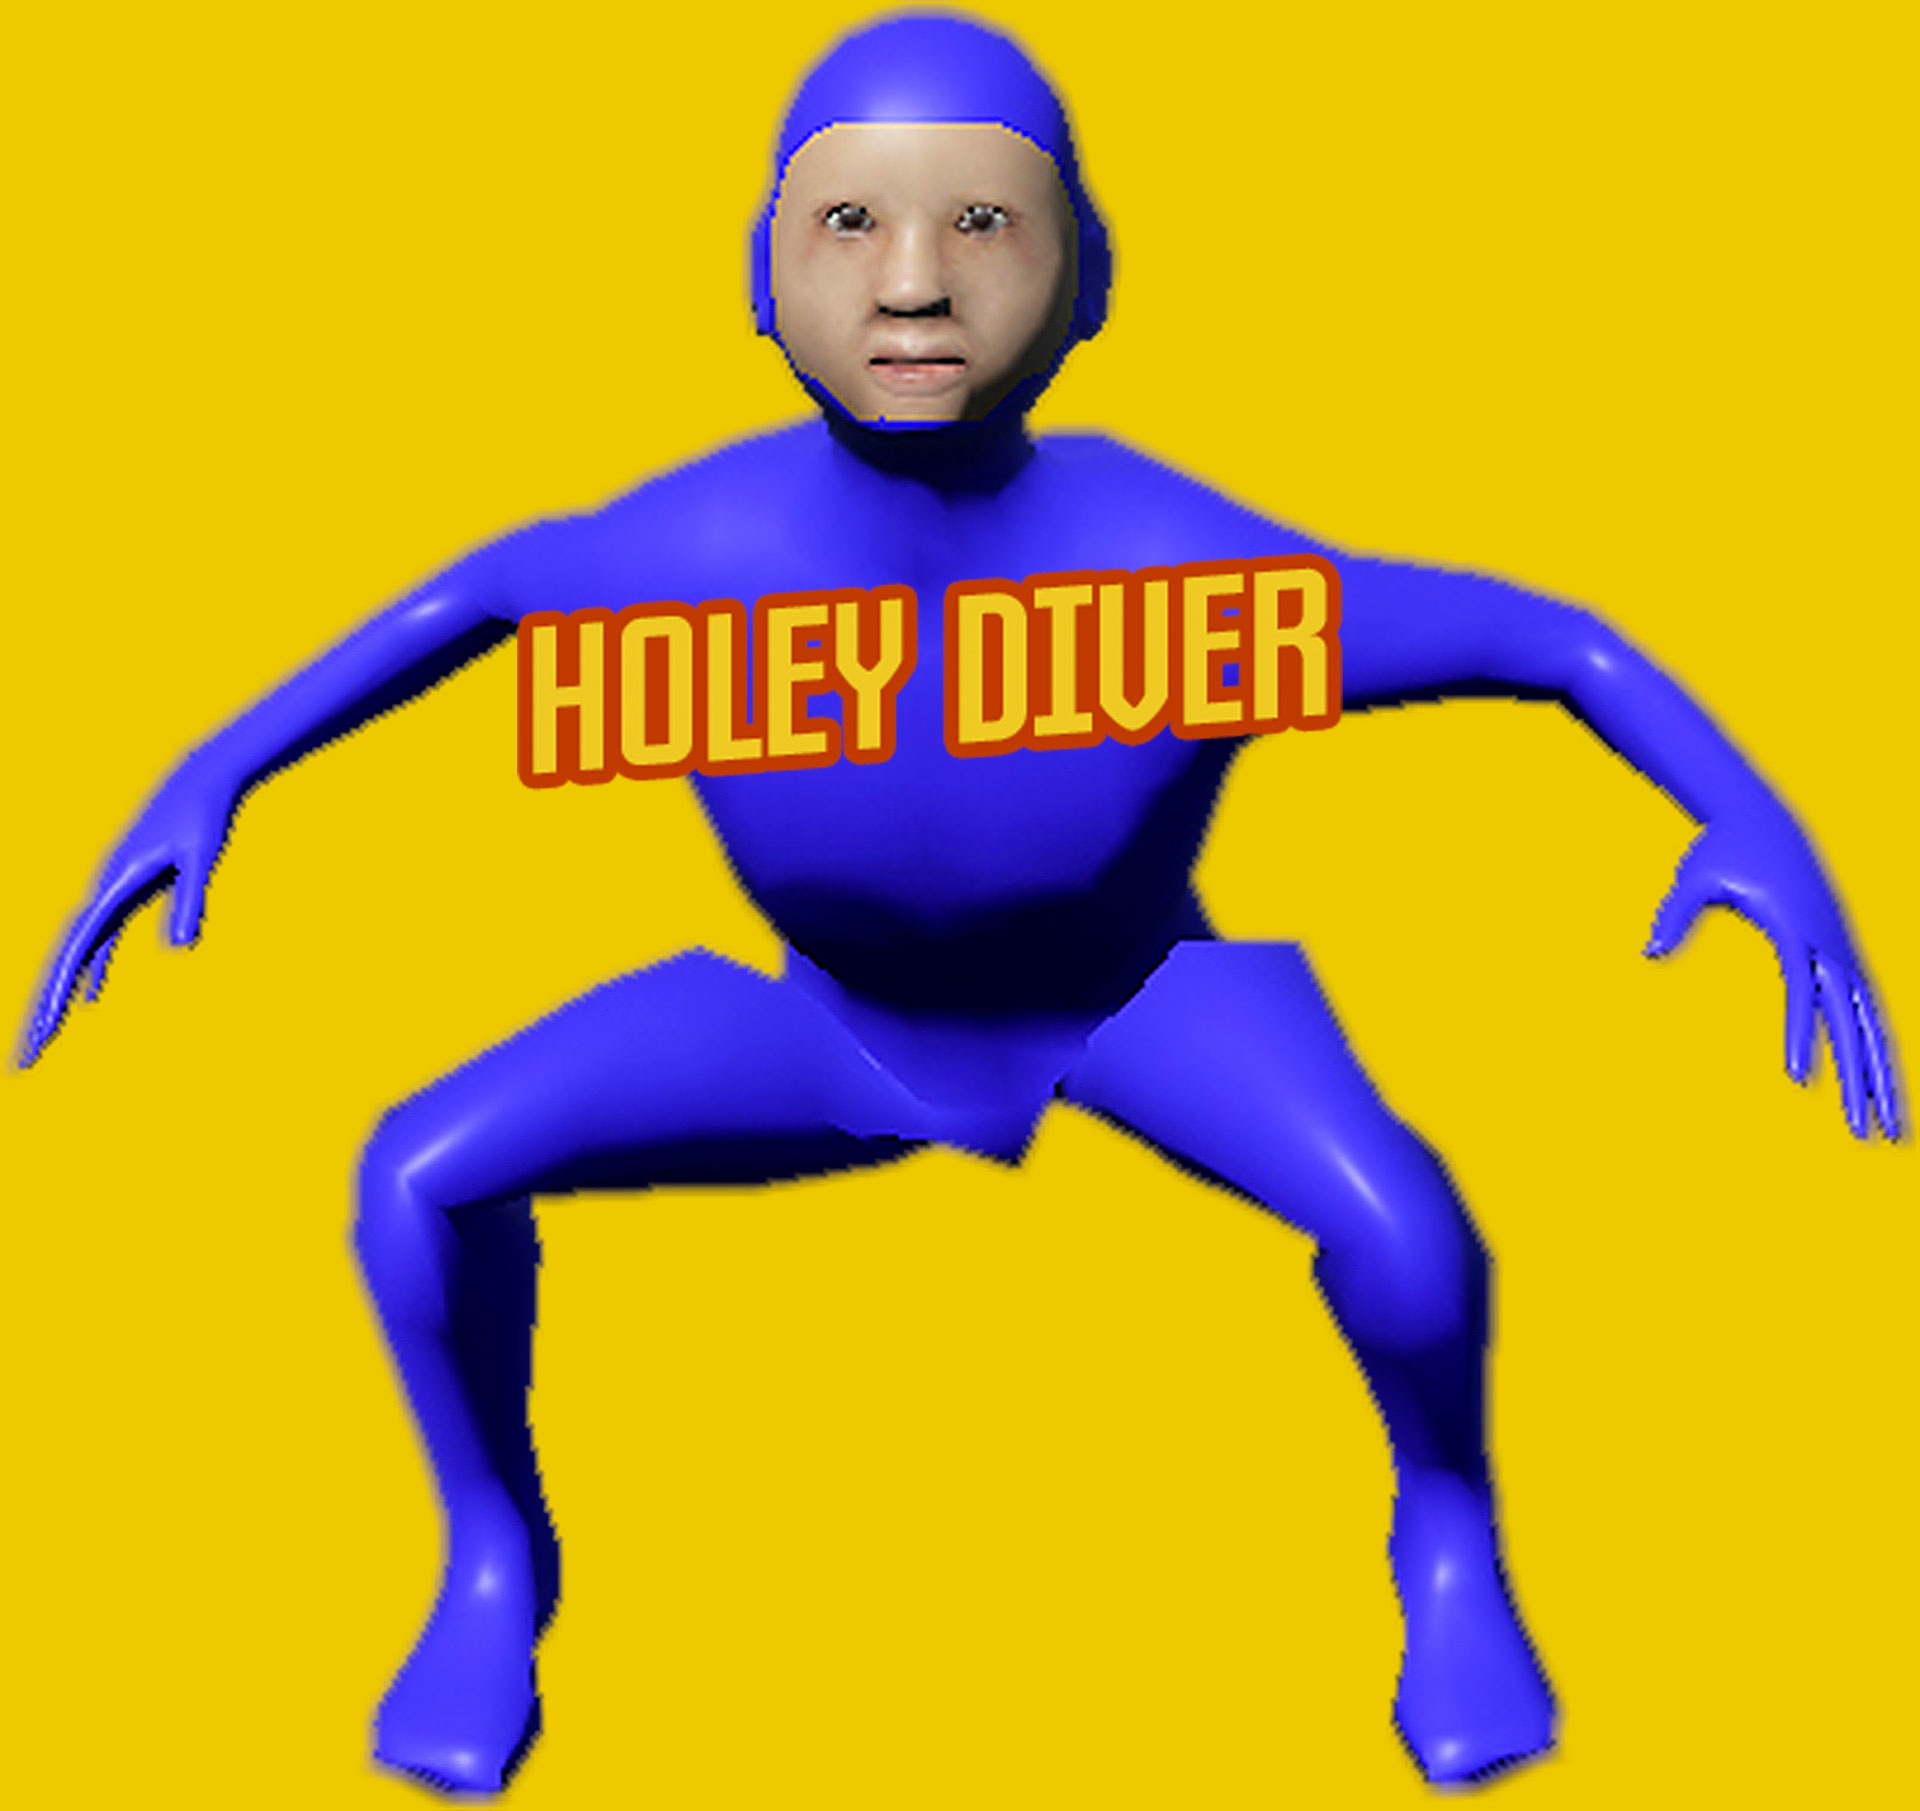
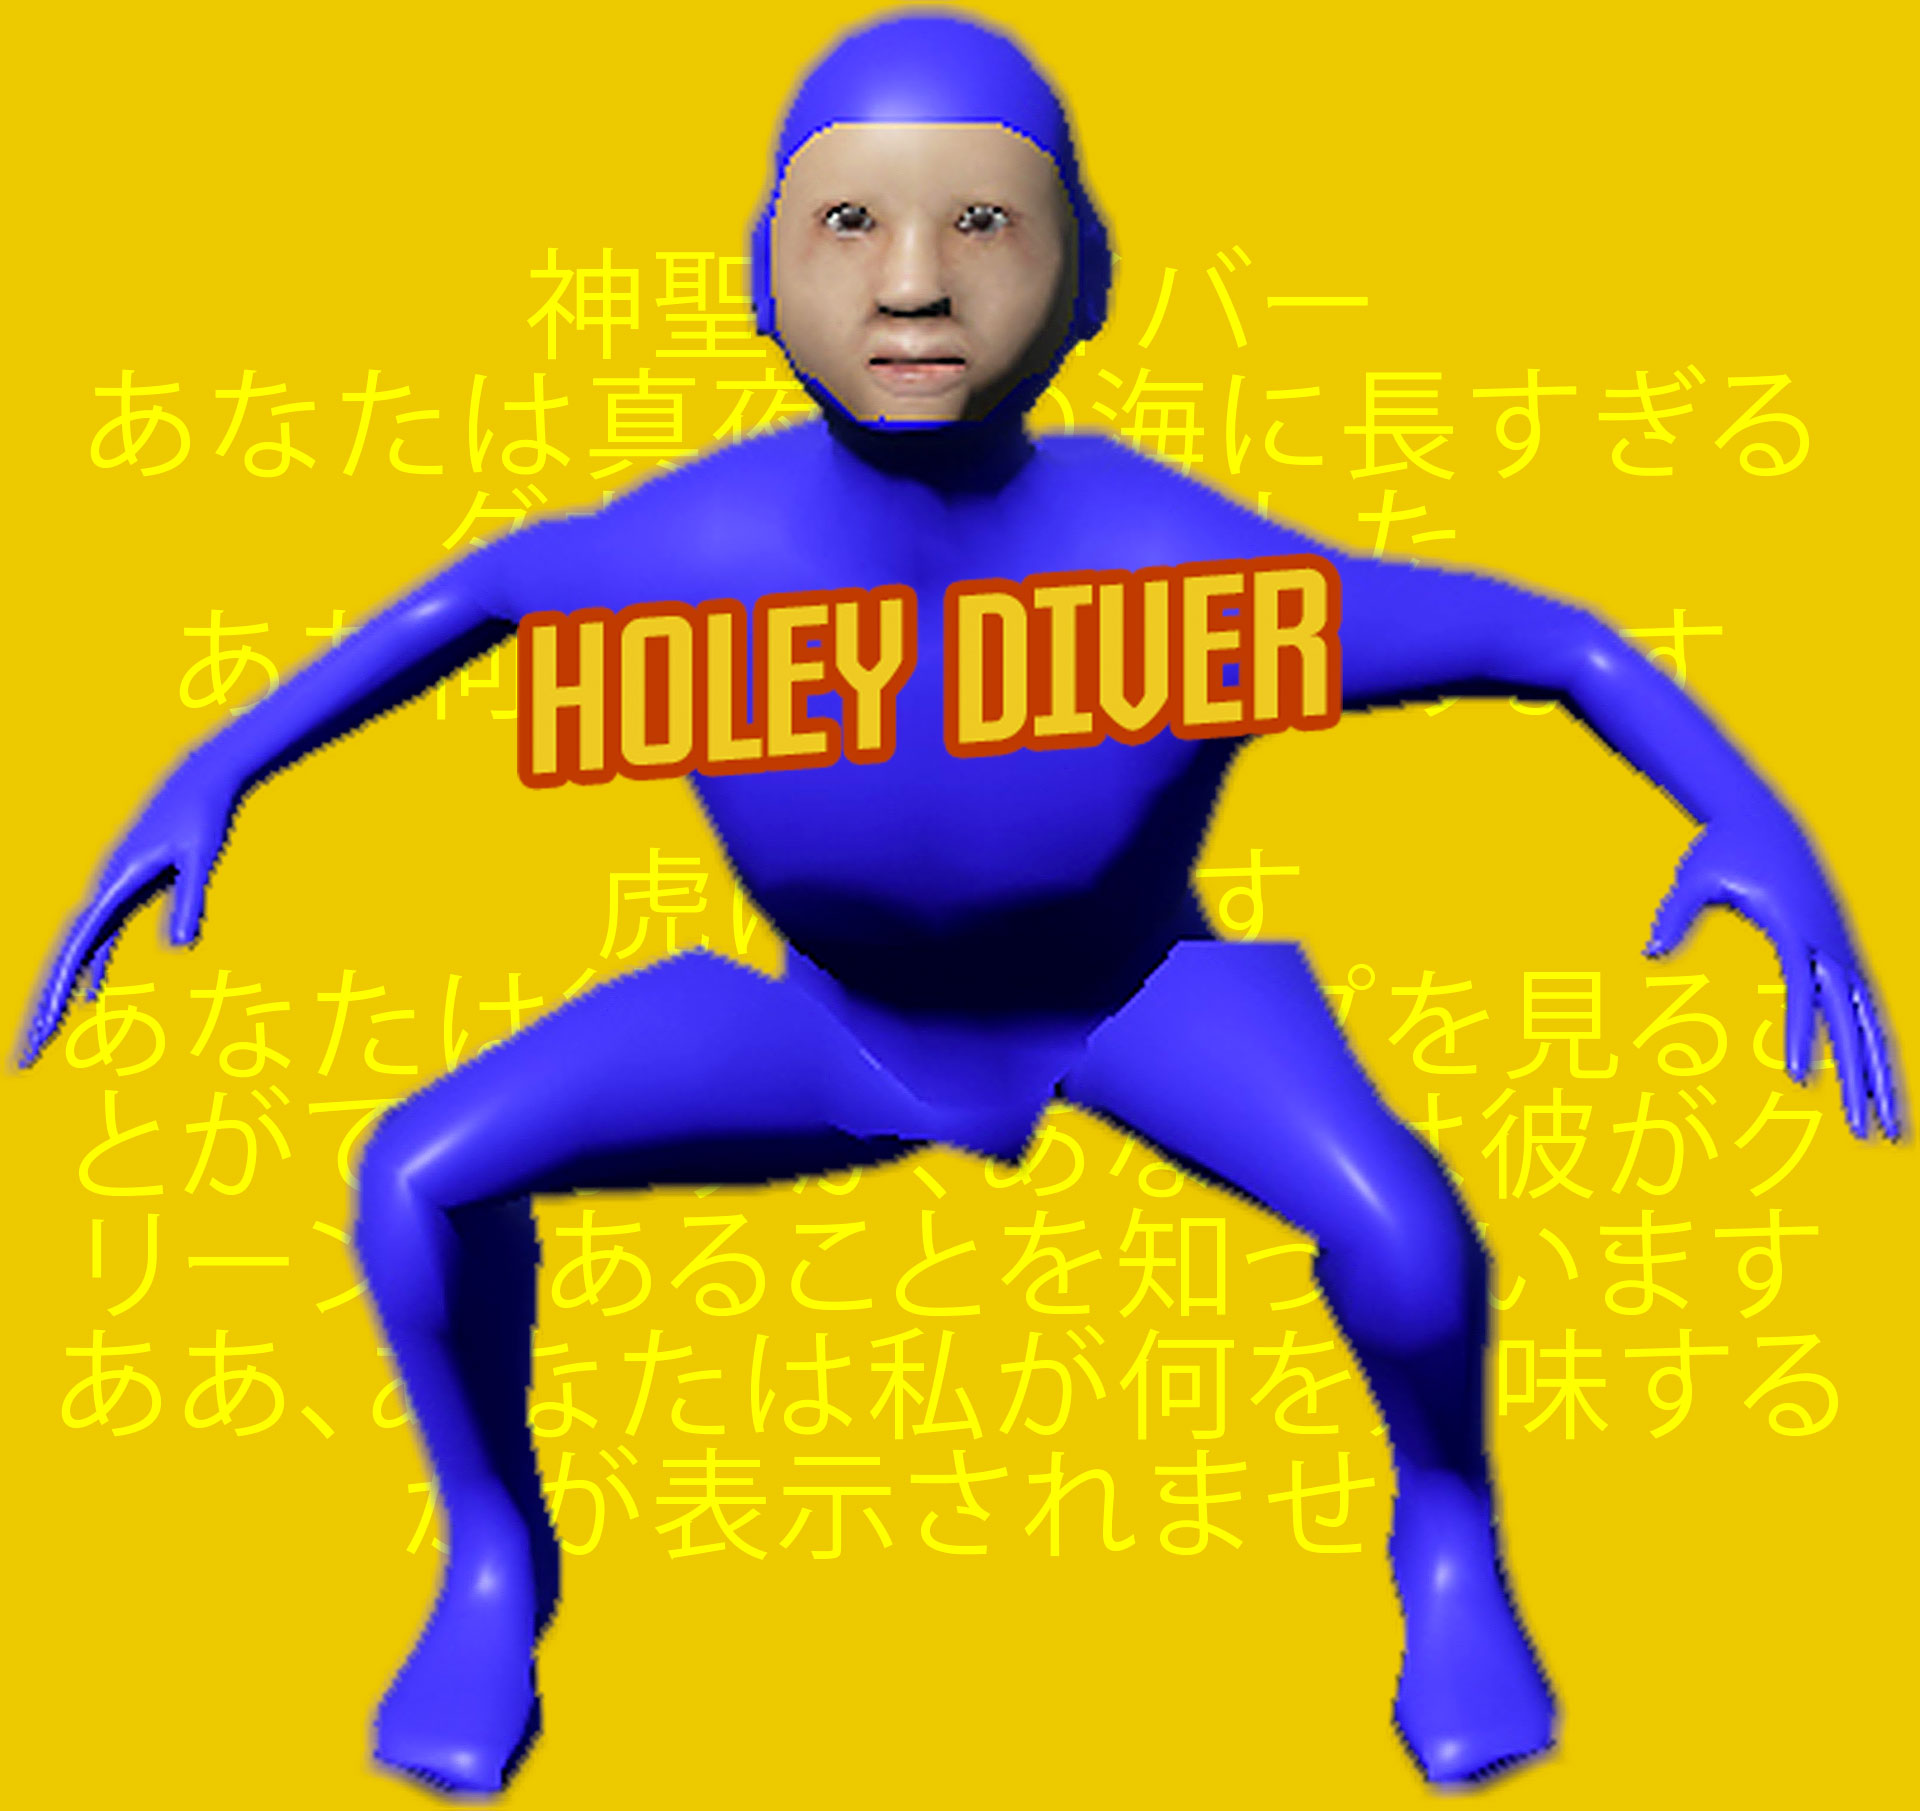
daisutsu no mono - protect my balls

diff --git a/index.html b/index.html
@@ -37,7 +37,8 @@
 	</style>
 </head>
 <body>
-	<!-- Itkettää og css -->
+	<!-- ウェブページのオリジナルのスタイリング方法を使うのは楽しいではありません。 -->
 	<a href="#">Download</a>
+	<!-- ジャガイモは、私のおなかでおいしいです。私は彼らの日常を消費します。 -->
 </body>
 </html>
